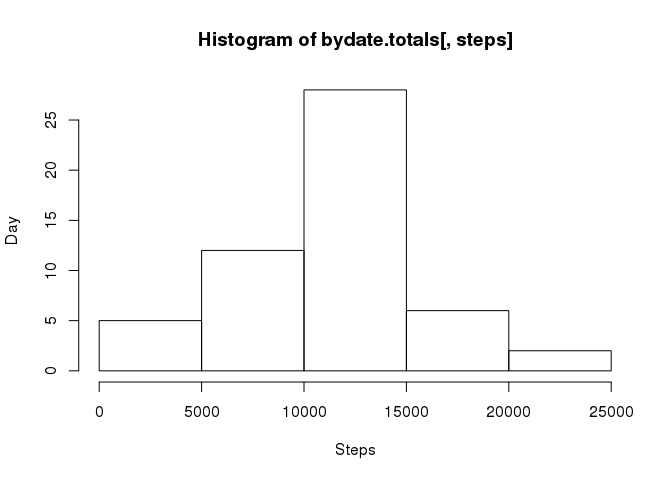
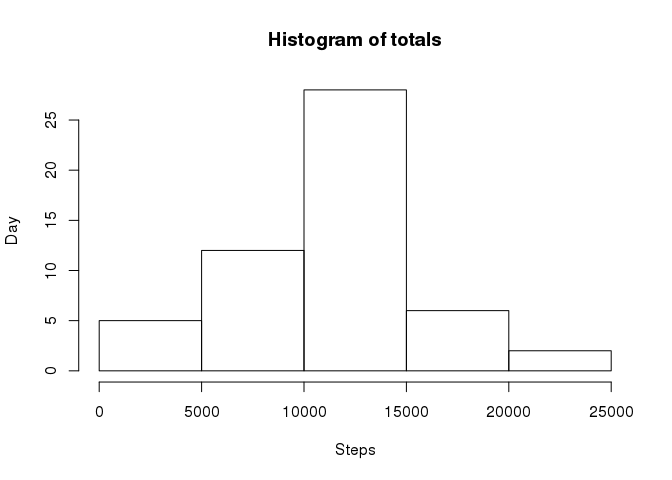
updated for missing totals

Changed region(s): [[0.2812, 0.0625, 0.7812, 0.125]]

diff --git a/PA1_template.html b/PA1_template.html
@@ -109,9 +109,9 @@ original &lt;- data.table(read.csv(&quot;activity.csv&quot;)) %&gt;%
 <pre class="r"><code>bydate.totals &lt;- original[!is.na(original$steps)] %&gt;% 
     group_by(date) %&gt;% 
     summarise(steps = sum(steps))
-
-hist(bydate.totals[,steps], xlab = 'Steps', ylab = 'Day')</code></pre>
[1 lines of base64/hex data omitted]
+totals &lt;- bydate.totals[,steps]
+hist(totals, xlab = 'Steps', ylab = 'Day')</code></pre>
[1 lines of base64/hex data omitted]
 <p>The mean and median for the totals per day is calculated.</p>
 <pre class="r"><code>bydate.mean &lt;- mean(totals)
 bydate.median &lt;- median(totals)</code></pre>
@@ -145,8 +145,9 @@ newdt &lt;- rbindlist(list(orig_clean, newdata))</code></pre>
 <p>Missing Data Count is <strong>2304</strong></p>
 <p>The following code calculates total steps by date and displays a histogram for new dataset.</p>
 <pre class="r"><code>newbydate.totals &lt;- newdt %&gt;% group_by(date) %&gt;% summarise(steps = sum(steps))
-hist(newbydate.totals[,steps], xlab = 'Steps', ylab = 'Day')</code></pre>
[1 lines of base64/hex data omitted]
+newtotals &lt;- newbydate.totals[,steps]
+hist(newtotals, xlab = 'Steps', ylab = 'Day')</code></pre>
[1 lines of base64/hex data omitted]
 <p>The following code determines the changes with new dataset.</p>
 <pre class="r"><code>newbydate.mean &lt;- mean(newtotals)
 newbydate.median &lt;- median(newtotals)

diff --git a/PA1_template.md b/PA1_template.md
@@ -87,8 +87,8 @@ The observations where steps is NA is ignored the rest is grouped by date and to
 bydate.totals <- original[!is.na(original$steps)] %>% 
     group_by(date) %>% 
     summarise(steps = sum(steps))
-
-hist(bydate.totals[,steps], xlab = 'Steps', ylab = 'Day')
+totals <- bydate.totals[,steps]
+hist(totals, xlab = 'Steps', ylab = 'Day')
 ```
 
 ![](PA1_template_files/figure-html/unnamed-chunk-3-1.png) 
@@ -138,7 +138,8 @@ The following code calculates total steps by date and displays a histogram for n
 
 ```r
 newbydate.totals <- newdt %>% group_by(date) %>% summarise(steps = sum(steps))
-hist(newbydate.totals[,steps], xlab = 'Steps', ylab = 'Day')
+newtotals <- newbydate.totals[,steps]
+hist(newtotals, xlab = 'Steps', ylab = 'Day')
 ```
 
 ![](PA1_template_files/figure-html/unnamed-chunk-7-1.png) 
